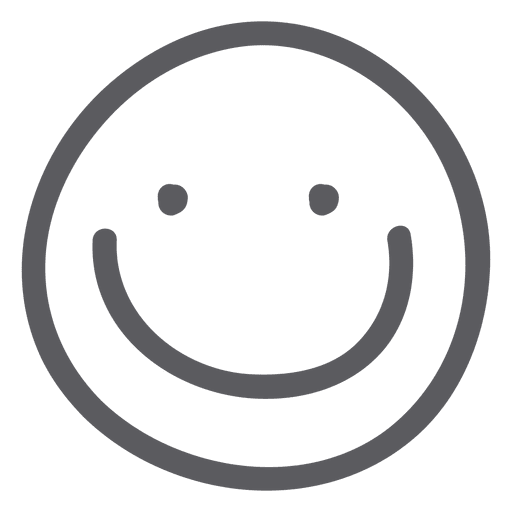
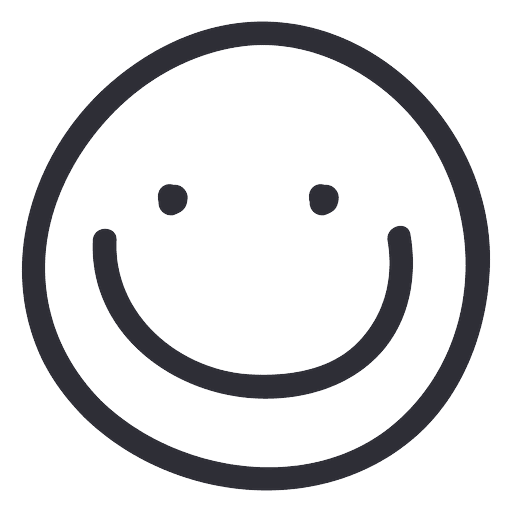
adjusted some pngs and buttons at the setup / reconnect pages

diff --git a/setup.html b/setup.html
@@ -4,7 +4,7 @@
         <div id="welcome">
             <h1>Gerät Hinzufügen</h1>
             <div class="main" style="margin-top: 100px; margin-bottom: 132px; display: table">
-                <img src="img/wifi.png" style="width: 200px; height: 200px; filter: invert(100%); margin: 0 auto; margin-bottom: 100px; display: block;">
+                <img class="setup-png" src="img/wifi.png">
                 <input class="gradient-blue" style="margin: 100px auto 100px auto; max-width: 400px!important; display: block" id="search-loop" type="button" value="Nach Geräten suchen .">
                 <p>Bitte Verbinde dich<br>mit dem Access Point<br>des Sensors / Schalters<br><br>Dabei müssen sich beide<br>in der Nähe des Routers befinden</p>
             </div>
@@ -34,10 +34,10 @@
                 </div>
             </div>
         </div>
-        <div id="connecting" style="display: none;">
+        <div id="connecting" style="display: none">
             <h1>Verbinden</h1>
             <div class="main" style="margin-top: 100px; margin-bottom: 132px; display: table">
-                <img src="img/connecting.png" style="width: 200px; height: 200px; filter: invert(100%); margin: 0 auto; margin-bottom: 100px; display: block;">
+                <img src="img/connecting.png" class="setup-png">
                 <div style="background: rgb(15, 15, 25); width: calc(100% - 100px); margin-top: 0px; margin-bottom: 100px; margin-right: 50px; margin-left: 50px; border-radius: 5px">
                     <div class="progress" style="background: hsl(210, 85%, 65%); width: 0%; height: 10px; border-radius: 5px"></div>
                 </div>
@@ -47,19 +47,17 @@
         <div id="success" style="display: none;">
             <h1>Erfolgreich Verbunden</h1>
             <div class="main" style="margin-top: 100px; margin-bottom: 132px; display: table">
-                <img src="img/success.png" style="width: 200px; height: 200px; filter: brightness(4); margin: 0 auto; margin-bottom: 100px; display: block;">
-                <input class="gradient-green" style="margin: 100px auto 100px auto; max-width: 400px!important; display: block" id="redirect-countdown" type="button" value="Zum Gerät ( 5 )">
+                <img src="img/success.png" class="setup-png">
+                <input class="gradient-green" style="margin: 100px auto 100px auto; max-width: 400px!important; display: block" id="redirect-success" type="button" value="Zum Gerät ( 5 )">
                 <p>Das Gerät ist<br>jetzt Einsatzbereit</p>
             </div>
         </div>
         <div id="error" style="display: none;">
             <h1>Fehler beim Verbinden</h1>
             <div class="main" style="margin-top: 100px; margin-bottom: 132px; display: table">
-                <img src="img/error.png" style="width: 200px; height: 200px; filter: brightness(4); margin: 0 auto; margin-bottom: 100px; display: block;">
+                <img src="img/error.png" class="setup-png">
+                <input class="gradient-red" style="margin: 100px auto 100px auto; max-width: 400px!important; display: block" id="redirect-error" type="button" value="Zurück ( 5 )">
                 <p>Bitte versuche es erneut!<br><br>Dein WLAN-Passwort<br>war nicht korrekt<br>oder etwas anderes<br>ist schief gegangen</p>
-            </div>
-            <div class="main">
-                <input type="button" value="Zurück" onclick="window.location.href='/setup'">
             </div>
         </div>
     </body>
@@ -87,19 +85,17 @@
 
     searchLoop();
 
-    function redirectCountdown(url)
+    function redirectCountdown(countdown, url)
     {
         setTimeout(function()
         {
-            var countdown = document.getElementById('redirect-countdown');
-
             if(countdown.value.split('( ')[1].split(' )')[0] > 0)
             {
-                countdown.value = 'Zum Gerät ( ' + (countdown.value.split('( ')[1].split(' )')[0] - 1) + ' )';
+                countdown.value = countdown.value.split('( ')[0] + '( ' + (countdown.value.split('( ')[1].split(' )')[0] - 1) + ' )';
 
                 if(countdown.value.split('( ')[1].split(' )')[0] > 0)
                 {
-                    redirectCountdown(url);
+                    redirectCountdown(countdown, url);
                 }
                 else
                 {
@@ -238,12 +234,12 @@
 
                         if(client.responseText == 'relais' || client.responseText == 'switch')
                         {
-                            redirectCountdown('/devices/' + client.responseText + '?mac=' + mac);
+                            redirectCountdown(document.getElementById('redirect-success'), '/devices/' + client.responseText + '?mac=' + mac);
                             document.getElementById('redirect-countdown').setAttribute('onclick', "window.location.href='/devices/" + client.responseText + "?mac=" + mac + "'");
                         }
                         else
                         {
-                            redirectCountdown('/devices/' + client.responseText + '-sensor?mac=' + mac);
+                            redirectCountdown(document.getElementById('redirect-success'), '/devices/' + client.responseText + '-sensor?mac=' + mac);
                             document.getElementById('redirect-countdown').setAttribute('onclick', "window.location.href='/devices/" + client.responseText + "-sensor?mac=" + mac + "'");
                         }    
                     }
@@ -341,6 +337,8 @@
                             //alert("Error");
                             document.getElementById('error').style.display = "";
                             document.getElementById('connecting').style.display = "none";
+
+                            redirectCountdown(document.getElementById('redirect-error'), '/setup');
                         }
                     }, 60000);
 

diff --git a/reconnect.html b/reconnect.html
@@ -5,7 +5,7 @@
             <h1>Gerät Übertragen</h1>
             <p>Übertrage ein Gerät aus einem anderen WLAN Netz</p>
             <div class="main" style="margin-top: 100px; margin-bottom: 132px; display: table">
-                <img src="img/wifi.png" style="width: 200px; height: 200px; filter: invert(100%); margin: 0 auto; margin-bottom: 100px; display: block;">
+                <img src="img/wifi.png" class="setup-png">
                 <input class="gradient-blue" style="margin: 100px auto 100px auto; max-width: 400px!important; display: block" id="search-loop" type="button" value="Nach Geräten suchen .">
                 <p>Bitte Verbinde dich<br>mit dem Access Point<br>des Sensors / Schalters<br><br>Dabei müssen sich beide<br>in der Nähe des Routers befinden</p>
             </div>
@@ -38,7 +38,7 @@
         <div id="connecting" style="display: none;">
             <h1>Verbinden</h1>
             <div class="main" style="margin-top: 100px; margin-bottom: 132px; display: table">
-                <img src="img/connecting.png" style="width: 200px; height: 200px; filter: invert(100%); margin: 0 auto; margin-bottom: 100px; display: block;">
+                <img src="img/connecting.png" class="setup-png">
                 <div style="background: rgb(15, 15, 25); width: calc(100% - 100px); margin-top: 0px; margin-bottom: 100px; margin-right: 50px; margin-left: 50px; border-radius: 5px">
                     <div class="progress" style="background: hsl(210, 85%, 65%); width: 0%; height: 10px; border-radius: 5px"></div>
                 </div>
@@ -48,7 +48,7 @@
         <div id="success" style="display: none;">
             <h1>Daten Übertragen</h1>
             <div class="main" style="margin-top: 100px; margin-bottom: 132px; display: table">
-                <img src="img/success.png" style="width: 200px; height: 200px; filter: brightness(4); margin: 0 auto; margin-bottom: 100px; display: block;">
+                <img src="img/success.png" class="setup-png">
                 <input class="gradient-green" style="margin: 100px auto 100px auto; max-width: 400px!important; display: block" id="redirect-countdown" type="button" value="Zum Dashboard ( 5 )" onclick="window.location.href='/'">
                 <p>Das Gerät<br>verbindet sich jetzt<br>mit dem WLAN</p>
             </div>
@@ -57,7 +57,7 @@
 </html>
 <script defer>
 
-function searchLoop()
+    function searchLoop()
     {
         setTimeout(function()
         {
@@ -78,23 +78,21 @@ function searchLoop()
 
     searchLoop();
 
-    function redirectCountdown()
+    function redirectCountdown(countdown, url)
     {
         setTimeout(function()
         {
-            var countdown = document.getElementById('redirect-countdown');
-
             if(countdown.value.split('( ')[1].split(' )')[0] > 0)
             {
-                countdown.value = 'Zum Dashboard ( ' + (countdown.value.split('( ')[1].split(' )')[0] - 1) + ' )';
+                countdown.value = countdown.value.split('( ')[0] + '( ' + (countdown.value.split('( ')[1].split(' )')[0] - 1) + ' )';
 
                 if(countdown.value.split('( ')[1].split(' )')[0] > 0)
                 {
-                    redirectCountdown();
+                    redirectCountdown(countdown, url);
                 }
                 else
                 {
-                    window.location.href = '/';
+                    window.location.href = url;
                 }
             }
         }, 1000);
@@ -323,7 +321,7 @@ function searchLoop()
                     document.getElementById('success').style.display = "";
                     document.getElementById('connecting').style.display = "none";
 
-                    redirectCountdown();           
+                    redirectCountdown(document.getElementById('redirect-success'), '/');           
                 }
             }
         };

diff --git a/style/main.css b/style/main.css
@@ -277,6 +277,16 @@ h2
     background-image: linear-gradient(to left, hsl(270, 85%, 55%) 0%, hsl(280, 95%, 60%) 100%)!important;
 }
 
+.setup-png
+{
+    width: 200px;
+    height: 200px;
+    filter: invert(100%) saturate(0%);
+    margin: 0 auto;
+    margin-bottom: 100px;
+    display: block;
+}
+
 @media(prefers-color-scheme: light)
 {
     body
@@ -350,6 +360,11 @@ h2
     .gradient-red, .gradient-green, .gradient-blue, .gradient-blue-green, .gradient-purple, input[type='submit']
     {
         color: rgb(20, 20, 30)!important;
+    }
+
+    .setup-png
+    {
+        filter: saturate(0%);
     }
 }
 
